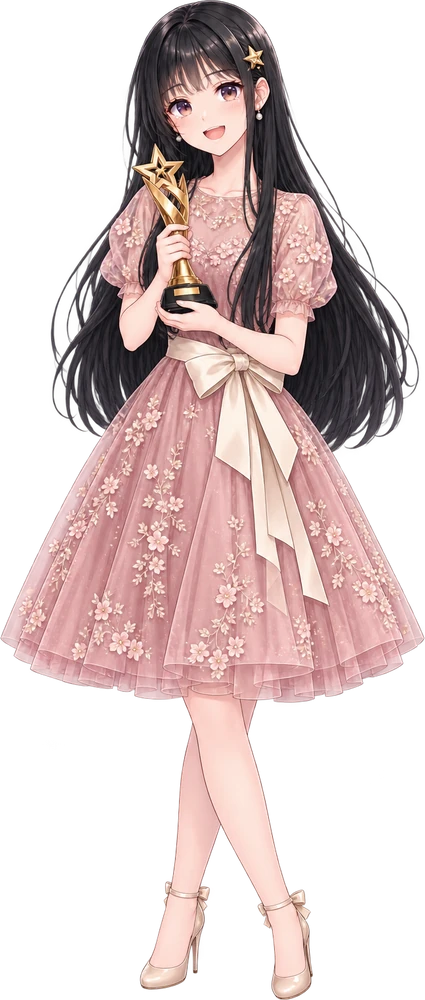
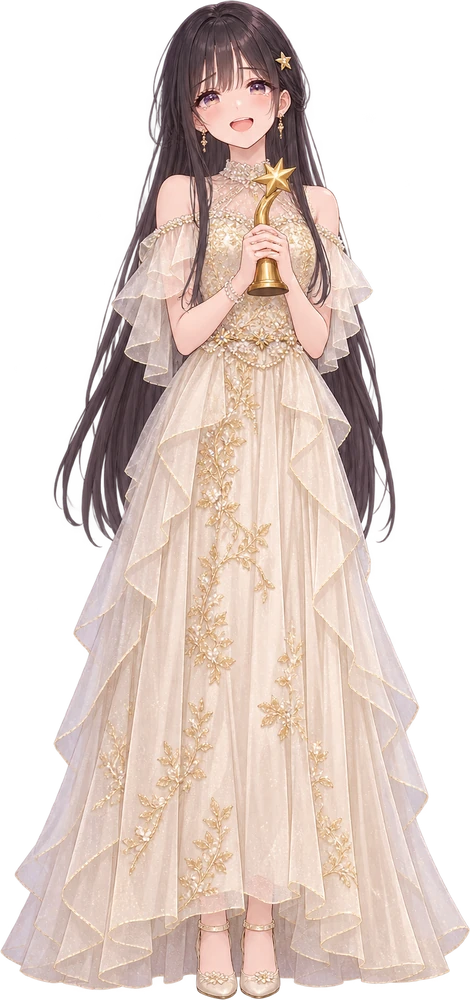
Transparent sprites redrawn from originals, stage sprites, review uses yesterday's drama words

diff --git a/js/talk.js b/js/talk.js
@@ -456,6 +456,22 @@ async function recall(my, tally, w, lang) {
   store.reviewWord(w.id, !!ok);
   return ok;
 }
+// 昨天那一集（今天前一天）：複習就用它短劇裡的三個字和台詞，印象最深
+function prevDay(lv) {
+  const days = DAYS();
+  const i = days.findIndex((l) => l.id === lv.id);
+  return i > 0 ? days[i - 1] : null;
+}
+function yesterdayWords(lv) {
+  const p = prevDay(lv);
+  return p ? p.words.map((id) => WORDS[id]).filter(Boolean) : [];
+}
+function yesterdayLine(lv) {
+  const p = prevDay(lv);
+  if (!p) return null;
+  const mine = (p.dialogue || []).filter((d) => d.c === 'me');
+  return mine.length ? { ...pick(mine), from: p.title } : null;
+}
 function oldLines(excludeId, n) {
   const cleared = store.get().course.cleared;
   const lines = DAYS().filter((l) => cleared[l.id] && l.id !== excludeId).flatMap((l) => l.dialogue.filter((d) => d.c === 'me').map((d) => ({ ...d, from: l.title })));
@@ -477,10 +493,21 @@ async function runLesson(my, lv, n) {
   await hearSafe(my, 'zh-TW', false);
 
   setStep(1);
-  const olds = oldWords(lv.words, 2);
-  if (olds.length) {
-    await say(my, [['先熱身，複習以前學過的字！', 'zh-TW']]);
-    for (const [i, w] of olds.entries()) await recall(my, tally, w, i % 2 ? 'en-US' : 'ko-KR');
+  // 複習昨天那一集短劇裡的三個字：先看昨天的劇照和那句台詞，再回想韓文／英文
+  const yd = prevDay(lv);
+  const olds = yesterdayWords(lv);
+  if (yd && olds.length) {
+    await say(my, [[`先熱身！還記得昨天的短劇「${STORIES[yd.id]?.title || yd.title}」嗎？`, 'zh-TW']], `複習昨天的短劇：${STORIES[yd.id]?.title || yd.title}`);
+    for (const [i, w] of olds.entries()) {
+      const dl = dramaLineFor(yd, w);
+      if (dl) {
+        const who = NAMES[dl.c] || dl.c;
+        setSceneSrc(panelSrcs(yd, dl.panel, dl.bg), `昨天短劇裡${who}說：「${dl.sub || dl.t}」`);
+        await say(my, [[`昨天${who}說了這句：`, 'zh-TW'], [dl.t, langOf(dl.t)]], `昨天${who}說：\n${dl.t}\n${dl.sub || ''}`);
+      }
+      await recall(my, tally, w, i % 2 ? 'en-US' : 'ko-KR');
+    }
+    setScene('story', lv.id, `短劇：${STORIES[lv.id].title}`);
   }
 
   for (const [i, w] of words.entries()) {
@@ -523,9 +550,9 @@ async function runLesson(my, lv, n) {
 
   await playDialogue(my, tally, lv, 7, n);
 
-  const old = oldLines(lv.id, 1)[0];
+  const old = yesterdayLine(lv);
   if (old) {
-    await say(my, [['最後，還記得這句嗎？', 'zh-TW']], `還記得「${old.from}」這句嗎？\n${old.zh}`);
+    await say(my, [['最後，還記得昨天你說的這句嗎？', 'zh-TW']], `還記得昨天「${old.from}」你說的這句嗎？\n${old.zh}`);
     await shadow(my, tally, old.ko, 'ko-KR', '');
   }
 

diff --git a/sw.js b/sw.js
@@ -1,5 +1,5 @@
 // 離線快取：先用網路，失敗時用快取（內容更新時改版本號）
-const CACHE = 'idolstudy-v57';
+const CACHE = 'idolstudy-v58';
 const FILES = ['./', './index.html', './css/style.css', './css/talk.css', './css/rewards.css', './css/lobby-pastel.css', './css/pastel-pages.css', './css/names.css', './css/v2.css', './css/drama.css', './js/names.js', './js/rewards.js', './js/app.js', './js/data.js', './js/store.js', './manifest.webmanifest', './icons/icon-192.png', './js/course.js', './js/util.js', './js/talk.js', './js/sound.js', './js/drama.js', './js/games.js', './js/course2.js', './js/course3.js', './js/themes.js', './js/extras.js', './js/bank.js', './js/examdata.js', './js/exam.js', './js/npc.js', './js/hangul.js', './js/facemap.js', './js/avatar.js', './css/exam.css', './css/fx.css', './assets/art/bg-practice.webp', './assets/art/teacher-cut.webp', './assets/art/teacher-face.webp', './assets/art/logo.webp', ...['home','wrong','cards','me','mic','speaker','gift','fire','book','chat','star','heart','zh','en','ko','meme','medal','map','trophy'].map((n) => `./assets/art/icons/ui-${n}.webp`)];
 
 self.addEventListener('install', (e) => {

diff --git a/js/drama.js b/js/drama.js
@@ -21,7 +21,8 @@ const SHOTS = [{ pos: '35% 40%', zoom: 1.18 }, { pos: '65% 40%', zoom: 1.18 }, {
 let token = 0;
 // 主角立繪跟著章節換裝：粉絲（1～4 章）→ 練習生（5～10）→ 出道（11～15）→ 頒獎典禮（16～）
 let meCh = 1;
-const spriteOf = (c) => (c !== 'me' ? `sprite-${c}` : meCh <= 4 ? 'sprite-me' : meCh <= 10 ? 'me-trainee' : meCh <= 15 ? 'me-debut' : 'me-award');
+// 徐允出道後（第 11 章起）也換成偶像服
+const spriteOf = (c) => (c === 'seoyun' && meCh >= 11 ? 'seoyun-idol' : c !== 'me' ? `sprite-${c}` : meCh <= 4 ? 'sprite-me' : meCh <= 10 ? 'me-trainee' : meCh <= 15 ? 'me-debut' : 'me-award');
 export function closeDrama() {
   token++;
   stopSpeaking();
